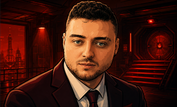
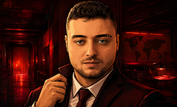
last push

diff --git a/src/app/page.tsx b/src/app/page.tsx
@@ -3,11 +3,11 @@
 import { useEffect, useState, useRef } from 'react';
 import { io, Socket } from 'socket.io-client';
 import { motion, AnimatePresence } from 'framer-motion';
-import { CheckCircle2, Hand, Search, Users, ShieldAlert, Crown, Copy, Settings, ArrowRight, AlertTriangle, ThumbsUp, ThumbsDown, X, Play, LogIn, Lock, Unlock, UserPlus, Info, ScrollText, LogOut, Clock, MessageSquare, Eye, EyeOff, Pencil, Sparkles, RotateCcw, Swords, FastForward } from 'lucide-react';
+import { CheckCircle2, Hand, Search, Users, ShieldAlert, Crown, Copy, Settings, ArrowRight, AlertTriangle, ThumbsUp, ThumbsDown, X, Play, LogIn, Lock, Unlock, UserPlus, Info, ScrollText, LogOut, Clock, MessageSquare, Eye, EyeOff, Pencil, Sparkles, RotateCcw, Swords, FastForward, Volume2, VolumeX } from 'lucide-react';
 import { Player, Room, Card, Team, Role } from '@/types';
 import bcrypt from 'bcryptjs';
 
-const BACKEND_URL = process.env.NEXT_PUBLIC_BACKEND_URL || 'http://localhost:3001';
+const BACKEND_URL = 'https://mekipnamessocket.mekiphub.com';
 
 const FALLBACK_WORDS = ["ELMA", "AJAN", "KÖPEK", "UZAY", "MISIR", "ALTIN", "HÜCRE", "ZAMAN", "KILIÇ", "BOMBA", "MASA", "KEDİ", "KUŞ", "DENİZ", "OKUL", "OYUN", "TELEFON", "KALP", "RÜZGAR", "ATEŞ", "BİLGİSAYAR", "GÖZLÜK", "DUVAR", "KAPI", "PENCERE"];
 
@@ -36,6 +36,9 @@ export default function CodenamesGame() {
   const [showTurnBanner, setShowTurnBanner] = useState<Team | null>(null);
   const prevTurnRef = useRef<Team | null>(null);
 
+  // İPUCU ANİMASYONU İÇİN (Ortadan Sola Uçuş)
+  const [clueBanner, setClueBanner] = useState<{word: string, count: number|string, team: string} | null>(null);
+
   // YAZIYA GİZLİCE BAKMA (PEEKING) İÇİN LOKAL STATE
   const [peekedCards, setPeekedCards] = useState<Set<number>>(new Set());
 
@@ -43,6 +46,9 @@ export default function CodenamesGame() {
   const [showWordModal, setShowWordModal] = useState(false);
   const [customWordsInput, setCustomWordsInput] = useState('');
   const [customWordProb, setCustomWordProb] = useState<number>(0);
+
+  // GENEL SES SEVİYESİ (Default 100% -> 1)
+  const [volume, setVolume] = useState(1);
 
   const roomRef = useRef<any>(null);
   useEffect(() => { roomRef.current = room; }, [room]);
@@ -91,6 +97,13 @@ export default function CodenamesGame() {
   // SES EFEKTİ REFERANSI
   const tickAudioRef = useRef<HTMLAudioElement | null>(null);
 
+  // SES SEVİYESİ DEĞİŞTİĞİNDE UYGULA
+  useEffect(() => {
+    if (tickAudioRef.current) {
+        tickAudioRef.current.volume = volume;
+    }
+  }, [volume]);
+
   // SOCKET.IO BAĞLANTISI BAŞLATMA
   useEffect(() => {
     const newSocket = io(BACKEND_URL);
@@ -126,6 +139,7 @@ export default function CodenamesGame() {
 
     if (typeof window !== 'undefined') {
         tickAudioRef.current = new Audio('/tick.mp3');
+        if (tickAudioRef.current) tickAudioRef.current.volume = volume;
     }
   }, []);
 
@@ -157,6 +171,14 @@ export default function CodenamesGame() {
     prevTurnRef.current = room?.currentTurn || null;
 
   }, [room?.settings?.redName, room?.settings?.blueName, room?.currentTurn, view]);
+
+  // YENİ İPUCU GELDİĞİNDE ANİMASYONU TETİKLEME VE TEMİZLEME (Titreme engellendi)
+  useEffect(() => {
+      if (clueBanner) {
+          const timer = setTimeout(() => setClueBanner(null), 3000); // 3 Saniye ortada kalır, sonra sola uçar
+          return () => clearTimeout(timer);
+      }
+  }, [clueBanner]);
 
   // Oyun içi zamanlayıcı ve Süre Bittiğinde Sıra Değişimi
   useEffect(() => {
@@ -200,8 +222,8 @@ export default function CodenamesGame() {
   // SÜRE BİTİMİ VE SES EFEKTİ KONTROLÜ
   useEffect(() => {
      if (view === 'playing') {
-         // Son 10 saniye uyarı sesi (Sadece 1 Kere Oynaması için baştan sarılır)
-         if (turnTimer === 10 && mePlayer?.team === room?.currentTurn) {
+         // Son 10 saniye uyarı sesi (Artık oda içerisindeki HERKES için tetiklenir)
+         if (turnTimer === 10 && turnTimer > 0) {
              if (tickAudioRef.current) {
                  tickAudioRef.current.currentTime = 0;
                  tickAudioRef.current.play().catch(e => console.log("Ses oynatılamadı:", e));
@@ -281,9 +303,10 @@ export default function CodenamesGame() {
 
     const handleSync = (payload: any) => {
         const syncRoom = payload.room;
+        const currentRoom = roomRef.current;
         
-        // KURUCU ODADAN ÇIKTI VEYA SİLDİYSE (HER ŞEYİ SIFIRLAMA EKLENDİ)
-        const me = roomRef.current?.players?.find((p: any) => p.sessionId === sessionId);
+        // KURUCU ODADAN ÇIKTI VEYA SİLDİYSE
+        const me = currentRoom?.players?.find((p: any) => p.sessionId === sessionId);
         if (syncRoom.status === 'deleted') {
             if (me && !me.isHost) {
                 alert("Lobi kurucusu ayrıldığı için lobi silindi. Lobi listesine yönlendiriliyorsunuz.");
@@ -301,6 +324,7 @@ export default function CodenamesGame() {
             setIsDealingPhase(false);
             hasDealtRef.current = false;
             setShowTurnBanner(null);
+            setClueBanner(null);
             prevTurnRef.current = null;
             setPeekedCards(new Set());
             setMeetingScores({});
@@ -314,6 +338,13 @@ export default function CodenamesGame() {
             setShowLeaveConfirm(false);
             setMeetingView(false);
             return;
+        }
+
+        // YENİ İPUCU KONTROLÜ (Sadece gerçekten yeni bir ipucu geldiğinde animasyon tetiklenir, titremeyi önler)
+        const oldClue = currentRoom?.currentClue;
+        const newClue = syncRoom.currentClue;
+        if (newClue && (!oldClue || newClue.word !== oldClue.word || newClue.count !== oldClue.count)) {
+            setClueBanner({ word: newClue.word, count: newClue.count, team: syncRoom.currentTurn });
         }
 
         setRoom(syncRoom);
@@ -413,15 +444,20 @@ export default function CodenamesGame() {
     return () => clearTimeout(timeout);
   }, [room?.players?.length]);
 
-  // 5. KURUCU SEKMEYİ VEYA TARAYICIYI KAPATIRSA LOBİYİ SİL
+  // 5. KURUCU VEYA OYUNCU TARAYICIYI KAPATIRSA ANLIK LOBİDEN DÜŞÜRME
   useEffect(() => {
     const handleBeforeUnload = (e: BeforeUnloadEvent) => {
       const currentRoom = roomRef.current;
       const me = currentRoom?.players?.find((p: any) => p.sessionId === sessionId);
       
-      if (currentRoom && me?.isHost) {
-          socket?.emit('sync', { roomId: currentRoom.id, room: { ...currentRoom, status: 'deleted' } });
-          fetch(`${BACKEND_URL}/api/rooms/${currentRoom.id}`, { method: 'DELETE', keepalive: true }).catch(()=>{});
+      if (currentRoom) {
+          if (me?.isHost) {
+              socket?.emit('sync', { roomId: currentRoom.id, room: { ...currentRoom, status: 'deleted' } });
+              fetch(`${BACKEND_URL}/api/rooms/${currentRoom.id}`, { method: 'DELETE', keepalive: true }).catch(()=>{});
+          } else {
+              const updatedPlayers = currentRoom.players.filter((p: any) => p.sessionId !== sessionId);
+              socket?.emit('sync', { roomId: currentRoom.id, room: { ...currentRoom, players: updatedPlayers } });
+          }
       }
     };
 
@@ -797,6 +833,9 @@ export default function CodenamesGame() {
     const log = { id: Date.now(), type: 'clue', team: updatedRoom.currentTurn, playerName: mePlayer?.name || 'Şef', word: clueWord.toUpperCase(), count: clueCount };
     updatedRoom.gameLogs = [...(updatedRoom.gameLogs || []), log];
 
+    // ŞEFİN EKRANINDA ANINDA GÖSTER (Göz kırpmayı önler, doğrudan tetikler)
+    setClueBanner({ word: updatedRoom.currentClue.word, count: updatedRoom.currentClue.count, team: updatedRoom.currentTurn });
+
     broadcastSync(updatedRoom);
     setClueWord('');
     setClueCount(1);
@@ -816,6 +855,7 @@ export default function CodenamesGame() {
     setPeekedCards(new Set());
     setTurnTimer(60);
     setShowTurnBanner(null);
+    setClueBanner(null);
     prevTurnRef.current = null;
     setClueWord('');
     setClueCount(1);
@@ -871,6 +911,7 @@ export default function CodenamesGame() {
     setIsDealingPhase(false);
     hasDealtRef.current = false;
     setShowTurnBanner(null);
+    setClueBanner(null);
     prevTurnRef.current = null;
     setPeekedCards(new Set());
     setMeetingScores({});
@@ -1188,7 +1229,7 @@ export default function CodenamesGame() {
 
         <div className="flex-1 flex flex-col p-4 md:p-8 max-w-[1400px] w-full mx-auto relative z-10">
             {/* LOBİ UI HEADER */}
-            <header className="h-16 flex flex-wrap justify-between items-center mb-8 gap-4 bg-white/[0.04] backdrop-blur-xl border border-white/10 p-4 rounded-3xl shadow-xl">
+            <header className="flex flex-wrap justify-between items-center mb-8 gap-4 bg-white/[0.04] backdrop-blur-xl border border-white/10 p-4 rounded-3xl shadow-xl">
                <div className="flex items-center gap-4">
                    <div className="flex h-12 w-12 items-center justify-center rounded-xl bg-gradient-to-br from-purple-500 via-blue-500 to-cyan-400 shadow-lg shadow-cyan-400/20">
                       <Sparkles size={24} className="text-white" />
@@ -1214,7 +1255,7 @@ export default function CodenamesGame() {
                   <button onClick={() => navigator.clipboard.writeText(`${window.location.origin}${window.location.pathname}?room=${room.id}`)} className="text-white/40 hover:text-cyan-300 ml-1 transition-colors"><Copy size={20}/></button>
                </div>
                
-               <div className="flex gap-3">
+               <div className="flex flex-wrap items-center gap-3">
                   <span className="bg-white/5 border border-white/10 px-5 py-3 rounded-2xl text-base font-bold flex items-center gap-2 text-white"><Users size={20} className="text-cyan-400"/> {room.players.length} Ajan</span>
                   
                   {/* TAKIM VE ROL VURGUSU */}
@@ -1554,6 +1595,30 @@ export default function CodenamesGame() {
            )}
         </AnimatePresence>
 
+        {/* İPUCU GELDİ ANİMASYONU (ORTADAN ÇIKIP SOLA GİDEN) */}
+        <AnimatePresence>
+           {clueBanner && (
+               <div className="fixed inset-0 z-[160] flex items-center justify-center pointer-events-none">
+                   <motion.div
+                       layoutId="clue-anim-box"
+                       initial={{ scale: 0.5, opacity: 0 }}
+                       animate={{ scale: 1, opacity: 1 }}
+                       exit={{ scale: 0.8, opacity: 0 }}
+                       transition={{ type: "spring", stiffness: 200, damping: 20 }}
+                       style={{ willChange: "transform, opacity" }}
+                       className={`px-16 py-10 rounded-[3rem] border-4 shadow-[0_0_100px_rgba(0,0,0,0.8)] flex flex-col items-center backdrop-blur-xl ${clueBanner.team === 'red' ? 'bg-red-950/90 border-red-500' : 'bg-cyan-950/90 border-cyan-400'}`}
+                   >
+                       <div className="flex items-center gap-3 text-white/50 font-bold mb-4 uppercase tracking-widest text-lg">
+                           <Info size={28}/> ŞEF İSTİHBARAT VERDİ
+                       </div>
+                       <div className={`text-8xl font-black uppercase tracking-widest drop-shadow-xl ${clueBanner.team === 'red' ? 'text-red-100' : 'text-cyan-100'}`}>
+                           {clueBanner.word} <span className="opacity-50 text-6xl">x</span>{clueBanner.count}
+                       </div>
+                   </motion.div>
+               </div>
+           )}
+        </AnimatePresence>
+
         {/* KUTU AÇILIŞ ANİMASYONU */}
         <AnimatePresence>
             {isDealingPhase && (
@@ -1575,7 +1640,8 @@ export default function CodenamesGame() {
                             backgroundImage: "url('/box.png')", 
                             backgroundSize: "contain", 
                             backgroundRepeat: "no-repeat", 
-                            backgroundPosition: "center" 
+                            backgroundPosition: "center",
+                            willChange: "transform"
                         }}
                     >
                     </motion.div>
@@ -1600,8 +1666,8 @@ export default function CodenamesGame() {
           )}
         </AnimatePresence>
 
-        {/* LOBİ UI HEADER (Küçük ve şık) */}
-        <header className="h-16 bg-white/[0.04] backdrop-blur-xl border-b border-white/10 flex justify-between items-center px-6 shrink-0 z-20">
+        {/* OYUN İÇİ ÜST BAR (Lobi ui'dan bağımsız yeni şık bar) */}
+        <header className="h-16 bg-white/[0.04] backdrop-blur-xl border-b border-white/10 flex flex-wrap justify-between items-center px-6 shrink-0 z-20 gap-4">
            <div className="flex items-center gap-3 bg-black/40 px-4 py-1.5 rounded-lg border border-white/5">
               <span className="text-white/50 font-bold text-sm">Oda Kodu:</span>
               <span className="text-white font-black tracking-[0.2em] text-sm">
@@ -1625,7 +1691,17 @@ export default function CodenamesGame() {
               </div>
            </div>
            
-           <div className="flex gap-2">
+           <div className="flex items-center gap-3">
+              {/* SES AYARI BURAYA TAŞINDI */}
+              <div className="flex items-center gap-2 bg-black/40 px-3 py-1.5 rounded-lg border border-white/5" title="Oyun Sesi">
+                  {volume === 0 ? <VolumeX size={16} className="text-white/40"/> : <Volume2 size={16} className="text-cyan-400"/>}
+                  <input 
+                      type="range" min="0" max="1" step="0.01" 
+                      value={volume} onChange={(e) => setVolume(parseFloat(e.target.value))} 
+                      className="w-16 sm:w-20 h-1.5 bg-white/10 rounded-full appearance-none outline-none accent-cyan-400 cursor-pointer"
+                  />
+              </div>
+
               <span className="bg-black/40 text-white/80 border border-white/5 px-4 py-1.5 rounded-lg text-sm font-bold flex items-center gap-2"><Settings size={16} className="text-violet-400"/> {mePlayer?.name}</span>
               <button onClick={() => setShowLeaveConfirm(true)} className="bg-red-500/20 text-red-300 border border-red-500/30 hover:bg-red-500 hover:text-white px-3 py-1.5 rounded-lg text-sm font-bold flex items-center gap-2 transition-colors"><LogOut size={16}/></button>
            </div>
@@ -1673,6 +1749,28 @@ export default function CodenamesGame() {
                       <div className="h-full bg-gradient-to-r from-violet-500 to-cyan-400 transition-all duration-1000 ease-linear" style={{ width: `${(turnTimer / (room.turnPhase === 'spymaster' ? room.settings.spymasterTime : room.settings.operativeTime)) * 100}%` }}></div>
                    </div>
                 </div>
+
+                {/* AKTİF İPUCU (SOL PANEL ALT KISIM - KART GİBİ GÖRÜNEN KISIM) */}
+                <AnimatePresence>
+                    {!clueBanner && room.currentClue && (
+                        <motion.div
+                            layoutId="clue-anim-box"
+                            initial={{ opacity: 0, scale: 0.8 }}
+                            animate={{ opacity: 1, scale: 1 }}
+                            exit={{ opacity: 0, scale: 0.8 }}
+                            transition={{ type: "spring", stiffness: 200, damping: 20 }}
+                            style={{ willChange: "transform, opacity" }}
+                            className={`mt-2 bg-white/[0.04] backdrop-blur-md rounded-2xl p-6 border flex flex-col items-center justify-center shadow-lg relative shrink-0 ${room.currentTurn === 'red' ? 'border-red-500/30' : 'border-cyan-500/30'}`}
+                        >
+                            <div className="flex items-center gap-2 text-white/50 text-xs font-bold uppercase tracking-widest mb-2">
+                                <Info size={16}/> AKTİF İPUCU
+                            </div>
+                            <div className={`text-3xl font-black uppercase tracking-widest text-center ${room.currentTurn === 'red' ? 'text-red-400' : 'text-cyan-300'}`}>
+                                {room.currentClue.word} <span className="opacity-50 text-xl mx-1">x</span>{room.currentClue.count}
+                            </div>
+                        </motion.div>
+                    )}
+                </AnimatePresence>
             </aside>
 
             {/* ORTA OYUN IZGARASI VE INPUT */}
@@ -1723,10 +1821,10 @@ export default function CodenamesGame() {
                   
                   const style = getCardStyle();
 
-                  // OY VEREN İSİMLERİ
+                  // OY VEREN İSİMLERİ (HERKES GÖREBİLİR OLDU)
                   const votingPlayers = card.votes
                       .map((vId: string) => room.players.find((p: any) => p.sessionId === vId))
-                      .filter((p: any) => p && p.team === mePlayer?.team);
+                      .filter((p: any) => p !== undefined); // Takım filtresi kaldırıldı
 
                   // KUSURSUZ DESTE (DECK) MATEMATİĞİ - YENİ VE DAHA AKICI SİNEMATİK VERSİYON
                   const col = index % 5;
@@ -1807,6 +1905,7 @@ export default function CodenamesGame() {
                           transition={transitionProps as any}
                           whileHover={(!isActuallyRevealed && !amISpymaster && isMyTurn && isOperativeTurn && !isGameOver) ? { y: -2, boxShadow: '0 8px 15px rgba(0,0,0,0.3)' } : {}}
                           whileTap={(!isActuallyRevealed && !amISpymaster && isMyTurn && isOperativeTurn && !isGameOver) ? { y: 2, boxShadow: '0 0 0 transparent' } : {}}
+                          style={{ willChange: "transform, opacity" }}
                           className={`absolute inset-0 rounded-xl flex items-center justify-center cursor-pointer select-none transition-all duration-200 overflow-hidden group p-2 ${style.outer} ${isActuallyRevealed ? 'shadow-none' : ''}`}
                         >
                           {/* SİLİK WATERMARK (MEKIP) - Henüz Açılmamışken Görünür */}
@@ -1824,7 +1923,7 @@ export default function CodenamesGame() {
                                animate={{ height: isPeeked ? '70%' : '100%' }} 
                                transition={{ type: 'spring', stiffness: 400, damping: 25 }}
                                className={`absolute top-0 left-0 w-full bg-cover bg-center z-10 transition-opacity duration-300 ${isPeeked ? 'pointer-events-none' : 'opacity-100'}`}
-                               style={{ backgroundImage: `url(/cards/${imgColor}/${card.designId}.png)` }}
+                               style={{ backgroundImage: `url(/cards/${imgColor}/${card.designId}.png)`, willChange: "height" }}
                              />
                           )}
 
@@ -1835,7 +1934,7 @@ export default function CodenamesGame() {
                               </div>
                           )}
 
-                          {/* SOL ÜST KÖŞE: OY VEREN KİŞİLERİN İSİMLERİ */}
+                          {/* SOL ÜST KÖŞE: OY VEREN KİŞİLERİN İSİMLERİ (Herkes görebilir) */}
                           {!isActuallyRevealed && votingPlayers.length > 0 && (
                             <div className="absolute top-1.5 left-1.5 flex flex-col gap-1 z-30 pointer-events-none">
                               {votingPlayers.map((p: any) => (